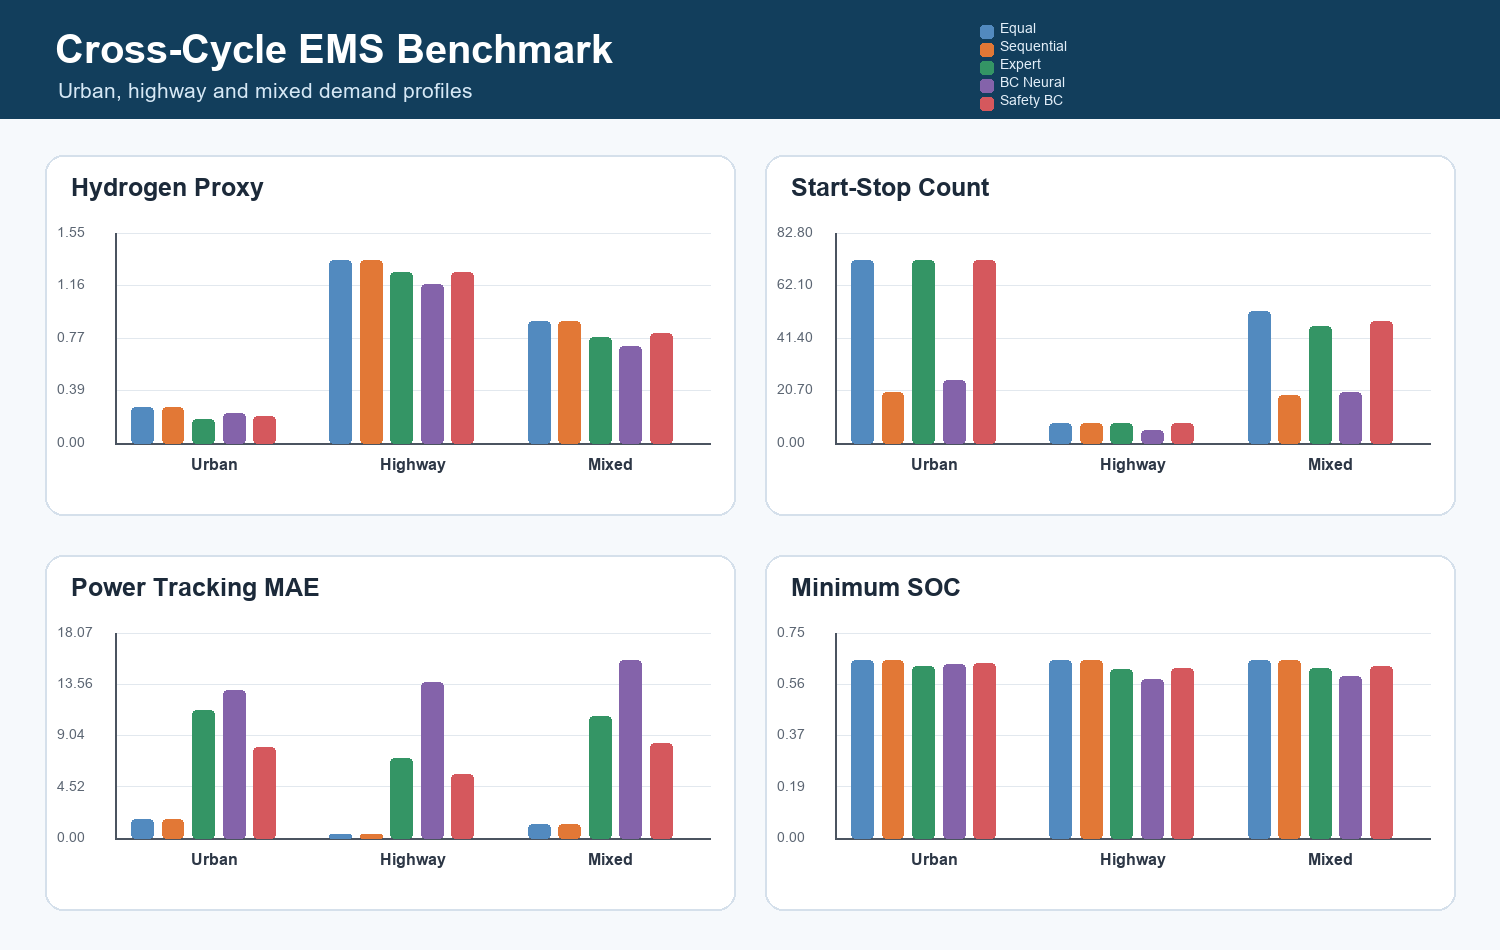
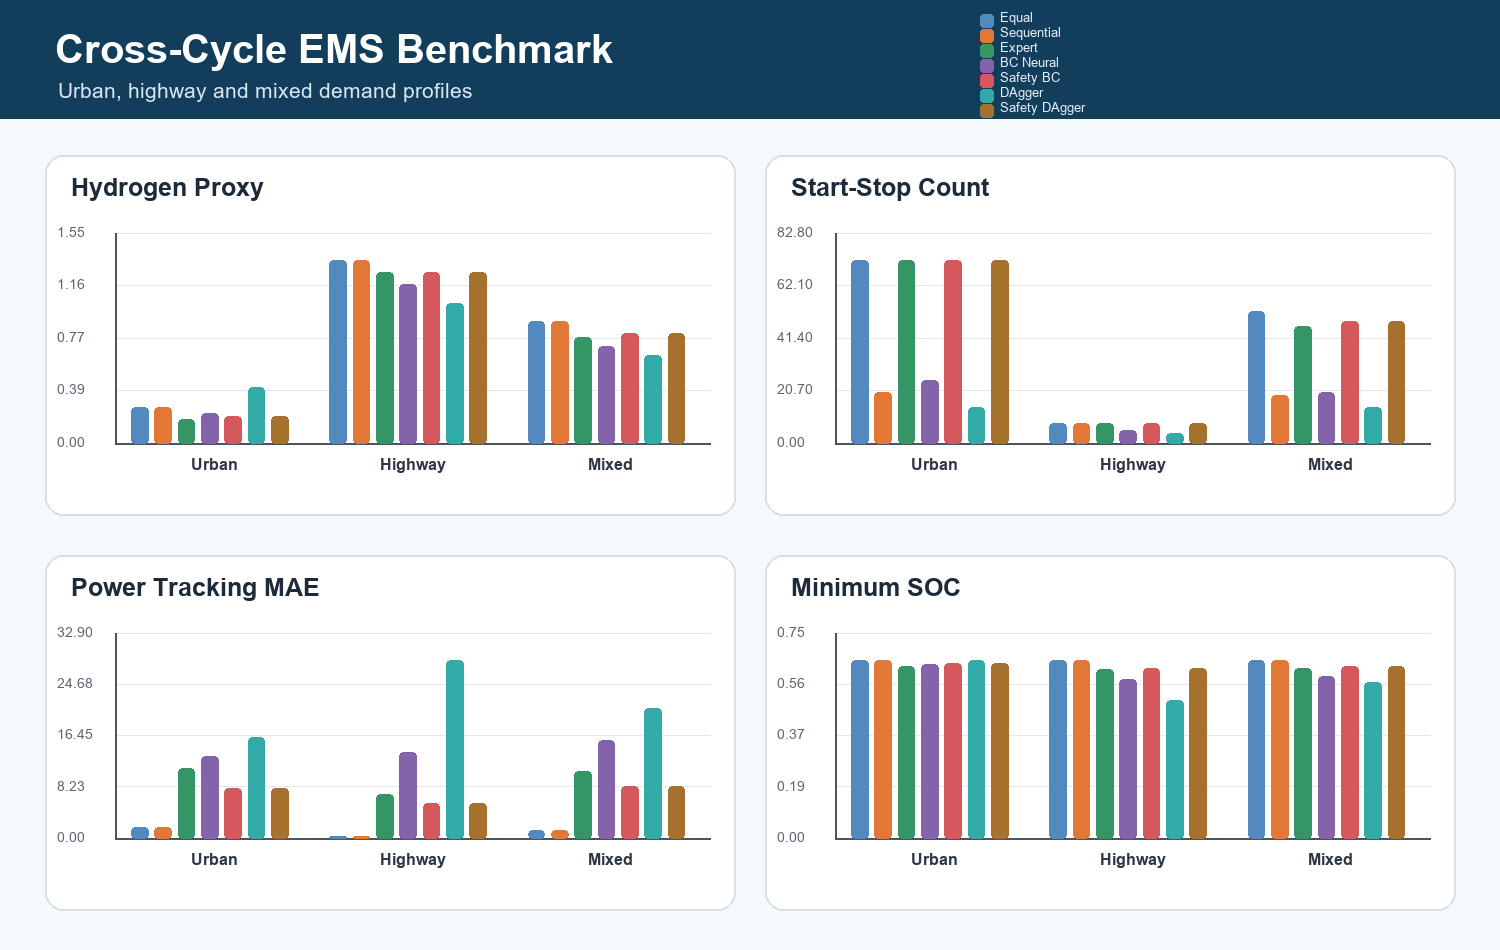
Integrate DAgger into evaluation pipeline

diff --git a/scripts/evaluate_drive_cycles.py b/scripts/evaluate_drive_cycles.py
@@ -16,7 +16,15 @@ OUT_CSV = ROOT / "results" / "drive_cycle_benchmark.csv"
 OUT_PNG = ROOT / "results" / "drive_cycle_benchmark.png"
 
 
-PALETTE = [(82, 138, 191), (226, 120, 54), (52, 149, 101), (132, 99, 170), (213, 88, 93)]
+PALETTE = [
+    (82, 138, 191),
+    (226, 120, 54),
+    (52, 149, 101),
+    (132, 99, 170),
+    (213, 88, 93),
+    (50, 171, 168),
+    (166, 113, 44),
+]
 
 
 def font(size, bold=False):
@@ -45,7 +53,10 @@ def run_policy_on_cycle(policy, demand, seed=3100):
 
 
 def evaluate():
-    policies = default_policy_suite(ROOT / "results" / "bc_policy.pt")
+    policies = default_policy_suite(
+        ROOT / "results" / "bc_policy.pt",
+        ROOT / "results" / "dagger_policy.pt",
+    )
     records = []
     for cycle in available_cycles():
         demand = make_cycle_demand(cycle)
@@ -91,12 +102,12 @@ def draw_grouped_bars(draw, records, metric, box, title):
 
 
 def draw_global_legend(draw):
-    labels = ["Equal", "Sequential", "Expert", "BC Neural", "Safety BC"]
+    labels = ["Equal", "Sequential", "Expert", "BC Neural", "Safety BC", "DAgger", "Safety DAgger"]
     lx = 980
     for i, label in enumerate(labels):
-        y = 25 + i * 18
+        y = 14 + i * 15
         draw.rounded_rectangle((lx, y, lx + 13, y + 13), radius=3, fill=PALETTE[i])
-        draw.text((lx + 20, y - 5), label, fill=(226, 238, 248), font=font(14))
+        draw.text((lx + 20, y - 4), label, fill=(226, 238, 248), font=font(13))
 
 
 def plot(records):

diff --git a/scripts/generate_experiment_report.py b/scripts/generate_experiment_report.py
@@ -105,13 +105,23 @@ def draw_pareto(rows):
     draw.text((575, 855), "Hydrogen consumption proxy / kg", fill=(35, 45, 58), font=font(20, True))
     draw.text((20, 420), "Power MAE / kW", fill=(35, 45, 58), font=font(20, True))
 
-    palette = [(82, 138, 191), (226, 120, 54), (52, 149, 101), (132, 99, 170), (213, 88, 93)]
+    palette = [
+        (82, 138, 191),
+        (226, 120, 54),
+        (52, 149, 101),
+        (132, 99, 170),
+        (213, 88, 93),
+        (50, 171, 168),
+        (166, 113, 44),
+    ]
     label_offsets = {
         "Equal": (18, 12),
         "Sequential": (18, -20),
         "BC Neural Policy": (20, -8),
         "HC-MPC-style Expert": (20, -10),
         "Safety-Filtered BC": (20, -10),
+        "DAgger Policy": (20, -10),
+        "Safety-Filtered DAgger": (20, 12),
     }
     for idx, row in enumerate(rows):
         x = x0 + (to_float(row, "h2_proxy_kg") - xmin) / (xmax - xmin) * (x1 - x0)

diff --git a/python/multistack_ai/policies.py b/python/multistack_ai/policies.py
@@ -41,7 +41,10 @@ class TorchPolicy:
         return self.model.act(obs).astype(np.float32)
 
 
-def default_policy_suite(model_path: str | Path | None = None):
+def default_policy_suite(
+    model_path: str | Path | None = None,
+    dagger_model_path: str | Path | None = None,
+):
     policies = {
         "Equal": EqualPolicy(),
         "Sequential": SequentialPolicy(),
@@ -51,4 +54,7 @@ def default_policy_suite(model_path: str | Path | None = None):
         bc_policy = TorchPolicy(model_path)
         policies["BC Neural Policy"] = bc_policy
         policies["Safety-Filtered BC"] = SafetyFilteredPolicy(TorchPolicy(model_path))
+    if dagger_model_path is not None and Path(dagger_model_path).exists():
+        policies["DAgger Policy"] = TorchPolicy(dagger_model_path)
+        policies["Safety-Filtered DAgger"] = SafetyFilteredPolicy(TorchPolicy(dagger_model_path))
     return policies

diff --git a/scripts/evaluate_policies.py b/scripts/evaluate_policies.py
@@ -17,7 +17,10 @@ def aggregate(rows):
 
 
 def main():
-    policies = default_policy_suite(ROOT / "results" / "bc_policy.pt")
+    policies = default_policy_suite(
+        ROOT / "results" / "bc_policy.pt",
+        ROOT / "results" / "dagger_policy.pt",
+    )
 
     out = ROOT / "results" / "policy_comparison.csv"
     out.parent.mkdir(parents=True, exist_ok=True)

diff --git a/scripts/plot_policy_comparison.py b/scripts/plot_policy_comparison.py
@@ -31,6 +31,8 @@ def short_name(name: str) -> str:
         "HC-MPC-style Expert": "HC-MPC\nExpert",
         "BC Neural Policy": "BC Neural\nPolicy",
         "Safety-Filtered BC": "Safety\nFiltered BC",
+        "DAgger Policy": "DAgger\nPolicy",
+        "Safety-Filtered DAgger": "Safety\nDAgger",
     }
     return mapping.get(name, name)
 

diff --git a/results/experiment_report.md b/results/experiment_report.md
@@ -8,27 +8,31 @@ This report is generated from the latest benchmark CSV files.
 
 | policy | score | h2_proxy_kg | power_mae_kw | start_stop_count | soc_min |
 | --- | --- | --- | --- | --- | --- |
-| Sequential | 0.6589 | 0.7131 | 1.96 | 174.88 | 0.6496 |
-| Safety-Filtered BC | 0.5382 | 0.6301 | 11.84 | 111.38 | 0.6255 |
-| HC-MPC-style Expert | 0.5004 | 0.6174 | 14.57 | 57.50 | 0.6194 |
+| Sequential | 0.6613 | 0.7131 | 1.96 | 174.88 | 0.6496 |
+| Safety-Filtered DAgger | 0.5852 | 0.6301 | 11.84 | 107.50 | 0.6255 |
+| Safety-Filtered BC | 0.5839 | 0.6301 | 11.84 | 111.38 | 0.6255 |
+| BC Neural Policy | 0.5640 | 0.5555 | 16.05 | 54.62 | 0.5973 |
+| HC-MPC-style Expert | 0.5580 | 0.6174 | 14.57 | 57.50 | 0.6194 |
 | Equal | 0.5000 | 0.7204 | 1.32 | 657.00 | 0.6500 |
-| BC Neural Policy | 0.5000 | 0.5555 | 16.05 | 54.62 | 0.5973 |
+| DAgger Policy | 0.3226 | 0.6669 | 20.07 | 53.50 | 0.6040 |
 
 ## Cross-Cycle Average Leaderboard
 
 | policy | score | h2_proxy_kg | power_mae_kw | start_stop_count | soc_min |
 | --- | --- | --- | --- | --- | --- |
-| Sequential | 0.6999 | 0.8375 | 1.11 | 15.67 | 0.6500 |
+| Sequential | 0.6699 | 0.8375 | 1.11 | 15.67 | 0.6500 |
+| BC Neural Policy | 0.6428 | 0.7018 | 14.18 | 16.67 | 0.6022 |
+| Safety-Filtered DAgger | 0.5337 | 0.7567 | 7.34 | 42.67 | 0.6276 |
+| Safety-Filtered BC | 0.5337 | 0.7567 | 7.34 | 42.67 | 0.6276 |
+| HC-MPC-style Expert | 0.5198 | 0.7409 | 9.68 | 42.00 | 0.6207 |
 | Equal | 0.5003 | 0.8373 | 1.10 | 44.00 | 0.6500 |
-| BC Neural Policy | 0.4929 | 0.7018 | 14.18 | 16.67 | 0.6022 |
-| Safety-Filtered BC | 0.4513 | 0.7567 | 7.34 | 42.67 | 0.6276 |
-| HC-MPC-style Expert | 0.4082 | 0.7409 | 9.68 | 42.00 | 0.6207 |
+| DAgger Policy | 0.5000 | 0.6986 | 21.93 | 10.67 | 0.5740 |
 
 ## Key Observations
 
 - Lowest hydrogen proxy: **BC Neural Policy** (0.5555).
 - Best power tracking: **Equal** (1.32 kW MAE).
 - Highest SOC margin: **Equal** (minimum SOC 0.6500).
-- Fewest start-stop events: **BC Neural Policy** (54.62).
+- Fewest start-stop events: **DAgger Policy** (53.50).
 
 The safety-filtered neural policy improves the raw BC policy's tracking and SOC robustness by injecting interpretable engineering constraints. The remaining trade-off is that stronger safety correction asks the fuel-cell stacks to carry more power, which can increase the hydrogen proxy relative to the raw neural policy.

diff --git a/docs/dagger_imitation.md b/docs/dagger_imitation.md
@@ -28,3 +28,9 @@ results/dagger_training_history.csv
 ## Why This Is Deeper Than A Metric Add-on
 
 DAgger changes the training process itself. Instead of only measuring the policy after training, it actively improves the state distribution used for learning. This makes the AI part of the project more defensible for research and internship discussion, because it addresses a real limitation of vanilla supervised imitation learning.
+
+## Current Finding
+
+The lightweight DAgger model is now included in the same evaluation pipeline as the rule-based, expert, BC and safety-filtered policies. The current small-scale DAgger setting reduces the validation imitation loss, but the raw DAgger policy does not yet dominate the raw BC policy in closed-loop control. This is an important research result rather than a failure: lower supervised loss is not guaranteed to produce better EMS behavior when the policy is evaluated through system dynamics.
+
+The safety-filtered DAgger variant is therefore included as a more practical hybrid controller. It preserves the DAgger training pathway while using the safety layer to correct SOC and fuel-cell target errors during deployment. Future work should tune the DAgger rollout schedule, increase expert-query diversity and compare mixture policies where the expert and learner share control during early aggregation rounds.

diff --git a/README.md b/README.md
@@ -86,6 +86,10 @@ python scripts/plot_policy_trajectories.py --cycle urban
 python scripts/train_dagger.py
 ```
 
+If `results/dagger_policy.pt` exists after running `train_dagger.py`, the evaluation scripts automatically include DAgger and Safety-Filtered DAgger in the comparison.
+
+The first DAgger integration is intentionally reported transparently: it reduces supervised imitation loss, while closed-loop performance still depends on the safety layer and rollout schedule. This keeps the project closer to a real research iteration instead of only showing cherry-picked improvements.
+
 Run the automated checks:
 
 ```bash
